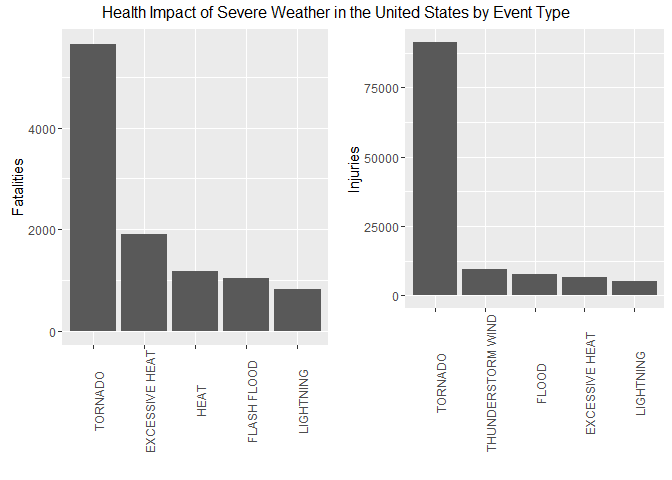
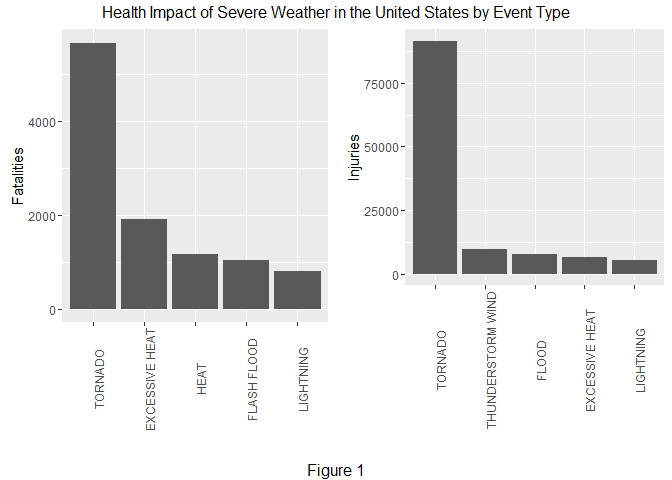
final cleanup for submission

diff --git a/PA2_template.html b/PA2_template.html
@@ -120,7 +120,7 @@ $(document).ready(function () {
 <li><a href="#pre-processing">Pre-processing</a><ul>
 <li><a href="#select-variables-for-analysis">Select variables for analysis</a></li>
 <li><a href="#evaluate-the-data-to-ensure-usability">Evaluate the data to ensure usability</a></li>
-<li><a href="#tidy-up-the-exp-and-evtypevariables">Tidy up the *EXP and EVTYPEvariables</a><ul>
+<li><a href="#tidy-up-the-exp-and-evtype-variables">Tidy up the *EXP and EVTYPE variables</a><ul>
 <li><a href="#tidy-exp">Tidy *EXP</a></li>
 <li><a href="#tidy-evtype">Tidy EVTYPE</a></li>
 </ul></li>
@@ -136,7 +136,7 @@ $(document).ready(function () {
 
 <div id="synopsis" class="section level1">
 <h1>Synopsis</h1>
-<p>The basic goal of this data analisys is to explore the NOAA Storm Database and address the following questions about severe weather events:</p>
+<p>The basic goal of this data analisys is to explore a published data set from the NOAA - National Weather Service Severe Storm Database, and address the following questions about severe weather events:</p>
 <ol style="list-style-type: decimal">
 <li>Across the United States, which types of events (as indicated in the EVTYPE variable) are most harmful with respect to population health?</li>
 <li>Across the United States, which types of events have the greatest economic consequences?</li>
@@ -202,8 +202,8 @@ stormData&lt;-read.csv(&quot;repdata%2Fdata%2FStormData.csv.bz2&quot;)</code></p
 <pre class="r"><code>stormData$CROPDMG[(stormData$CROPDMGEXP %in% c(&quot;?&quot;, &quot;-&quot;, &quot;+&quot;))]</code></pre>
 <pre><code>## [1] 0 0 0 0 0 0 0</code></pre>
 </div>
-<div id="tidy-up-the-exp-and-evtypevariables" class="section level2">
-<h2>Tidy up the *EXP and EVTYPEvariables</h2>
+<div id="tidy-up-the-exp-and-evtype-variables" class="section level2">
+<h2>Tidy up the *EXP and EVTYPE variables</h2>
 <div id="tidy-exp" class="section level3">
 <h3>Tidy *EXP</h3>
 <p>In the previous step we observed that the number of *EXP values in the vector, c( “”, “?”, “+”, “-”) were very low. Based on the number of occurrences and the corresponding *DMG values, we can safely assign an value of 0 (zero) to non-alphanumeric *EXP values.</p>
@@ -338,14 +338,7 @@ rownames(crops)&lt;-seq(1:nrow(crops))</code></pre>
 <p>The ggplot2, grid and gridExtra packages were used to plot the relationship between weather event types and impact.</p>
 <div id="health-impact" class="section level2">
 <h2>Health Impact</h2>
-<p>Health impacts (life and limb) are clearly dominated by “Tornado” class events. I believe that this would have emerged whether the data had been “tidied” or not.</p>
-</div>
-<div id="economic-impact" class="section level2">
-<h2>Economic Impact</h2>
-<p>Serious flooding (vs. Flash flooding, small streams, etc.) render the greatest overall economic impact and property damage in particular. Crop damage on the other hand suffers its greatest impact from tornadoes.</p>
-</div>
-<div id="explore-the-relationships-using-ggplot" class="section level2">
-<h2>explore the relationships using ggplot</h2>
+<p>As indicated in Figure 1, below, health impacts (life and limb) are clearly dominated by <em>“Tornado”</em> class events. I believe that this would have emerged whether the EVTYPE varriable had been “tidied” or not.</p>
 <pre class="r"><code>require(ggplot2)</code></pre>
 <pre><code>## Loading required package: ggplot2</code></pre>
 <pre><code>## Warning: package 'ggplot2' was built under R version 3.2.5</code></pre>
@@ -367,8 +360,15 @@ gg2&lt;- gg2 + xlab(&quot;&quot;)
 gg2&lt;- gg2 + ylab(&quot;Injuries&quot;)
 gg2&lt;- gg2 + theme(axis.text.x = element_text(angle=90))
 
-grid.arrange(gg1, gg2, ncol = 2, top = &quot;Health Impact of Severe Weather in the United States by Event Type&quot;)</code></pre>
[1 lines of base64/hex data omitted]
+grid.arrange(gg1, gg2, ncol = 2, top = &quot;Health Impact of Severe Weather in the United States by Event Type&quot;, bottom = &quot;Figure 1&quot;)</code></pre>
[1 lines of base64/hex data omitted]
+</div>
+<div id="economic-impact" class="section level2">
+<h2>Economic Impact</h2>
+<p>Figure 2, below, shows that <em>serious flooding</em> events (vs. Flash flooding, small streams, etc.) render the greatest overall economic impact, driven primarily by property damage value in particular. While not impacting the overall economic impact as dramatically, crop damage, on the other hand, suffers its greatest impact from <em>tornadoes</em>.</p>
+</div>
+<div id="explore-the-relationships-using-ggplot" class="section level2">
+<h2>explore the relationships using ggplot</h2>
 <pre class="r"><code># Economic Impact Analysis
 gg1&lt;- ggplot(property[1:5,], aes(x = NOAA_EVTYPE, y = IMPACT_VAL)) 
 gg1&lt;- gg1 + geom_bar(stat = &quot;identity&quot;)
@@ -384,8 +384,8 @@ gg2&lt;- gg2 + theme(axis.text.x = element_text(angle=90))
 
 require(grid)
 require(gridExtra)
-grid.arrange(gg1, gg2, ncol = 2, top = &quot;Economic Impact (US-$) of Severe Weather in the United States by Event Type&quot;)</code></pre>
[1 lines of base64/hex data omitted]
+grid.arrange(gg1, gg2, ncol = 2, top = &quot;Economic Impact (US-$) of Severe Weather in the United States by Event Type&quot;, bottom = &quot;Figure 2&quot;)</code></pre>
[1 lines of base64/hex data omitted]
 </div>
 </div>
 

diff --git a/PA2_template.md b/PA2_template.md
@@ -1,6 +1,6 @@
 # Health and Economic Impact of Severe Weather in the United States
 # Synopsis
-The basic goal of this data analisys is to explore the NOAA Storm Database and address the following questions about severe weather events:
+The basic goal of this data analisys is to explore a published data set from the NOAA - National Weather Service Severe Storm Database, and address the following questions about severe weather events:
 
 1. Across the United States, which types of events (as indicated in the EVTYPE variable) are most harmful with respect to population health?
 2. Across the United States, which types of events have the greatest economic consequences?
@@ -49,6 +49,7 @@ require(knitr)
 ```
 ## Loading required package: knitr
 ```
+
 
 
 
@@ -136,7 +137,7 @@ stormData$CROPDMG[(stormData$CROPDMGEXP %in% c("?", "-", "+"))]
 ```
 
 
-## Tidy up the \*EXP and EVTYPEvariables
+## Tidy up the \*EXP and EVTYPE variables
 ### Tidy \*EXP
 
 In the previous step we observed that the number of \*EXP values in the vector, c( "", "?", "+", "-") were very low. Based on the number of occurrences and the corresponding \*DMG values, we can safely assign an value of 0 (zero) to non-alphanumeric \*EXP values.
@@ -328,15 +329,7 @@ The ggplot2, grid and gridExtra packages were used to plot the relationship betw
 
 ## Health Impact
 
-Health impacts (life and limb) are clearly dominated by "Tornado" class events. I believe that this would have emerged whether the data had been "tidied" or not.
-
-## Economic Impact
-
-Serious flooding (vs. Flash flooding, small streams, etc.) render the greatest overall economic impact and property damage in particular. 
-Crop damage on the other hand suffers its greatest impact from tornadoes. 
-
-## explore the relationships using  ggplot
-
+As indicated in Figure 1, below, health impacts (life and limb) are clearly dominated by *"Tornado"* class events. I believe that this would have emerged whether the EVTYPE varriable had been "tidied" or not.
 
 ```r
 require(ggplot2)
@@ -384,10 +377,18 @@ gg2<- gg2 + xlab("")
 gg2<- gg2 + ylab("Injuries")
 gg2<- gg2 + theme(axis.text.x = element_text(angle=90))
 
-grid.arrange(gg1, gg2, ncol = 2, top = "Health Impact of Severe Weather in the United States by Event Type")
+grid.arrange(gg1, gg2, ncol = 2, top = "Health Impact of Severe Weather in the United States by Event Type", bottom = "Figure 1")
 ```
 
 ![](PA2_template_files/figure-html/unnamed-chunk-9-1.png)
+
+## Economic Impact
+
+Figure 2, below, shows that *serious flooding* events (vs. Flash flooding, small streams, etc.) render the greatest overall economic impact, driven primarily by property damage value in particular. 
+While not impacting the overall economic impact as dramatically, crop damage, on the other hand, suffers its greatest impact from *tornadoes*. 
+
+## explore the relationships using  ggplot
+
 
 ```r
 # Economic Impact Analysis
@@ -405,7 +406,7 @@ gg2<- gg2 + theme(axis.text.x = element_text(angle=90))
 
 require(grid)
 require(gridExtra)
-grid.arrange(gg1, gg2, ncol = 2, top = "Economic Impact (US-$) of Severe Weather in the United States by Event Type")
+grid.arrange(gg1, gg2, ncol = 2, top = "Economic Impact (US-$) of Severe Weather in the United States by Event Type", bottom = "Figure 2")
 ```
 
-![](PA2_template_files/figure-html/unnamed-chunk-9-2.png)
+![](PA2_template_files/figure-html/unnamed-chunk-10-1.png)
